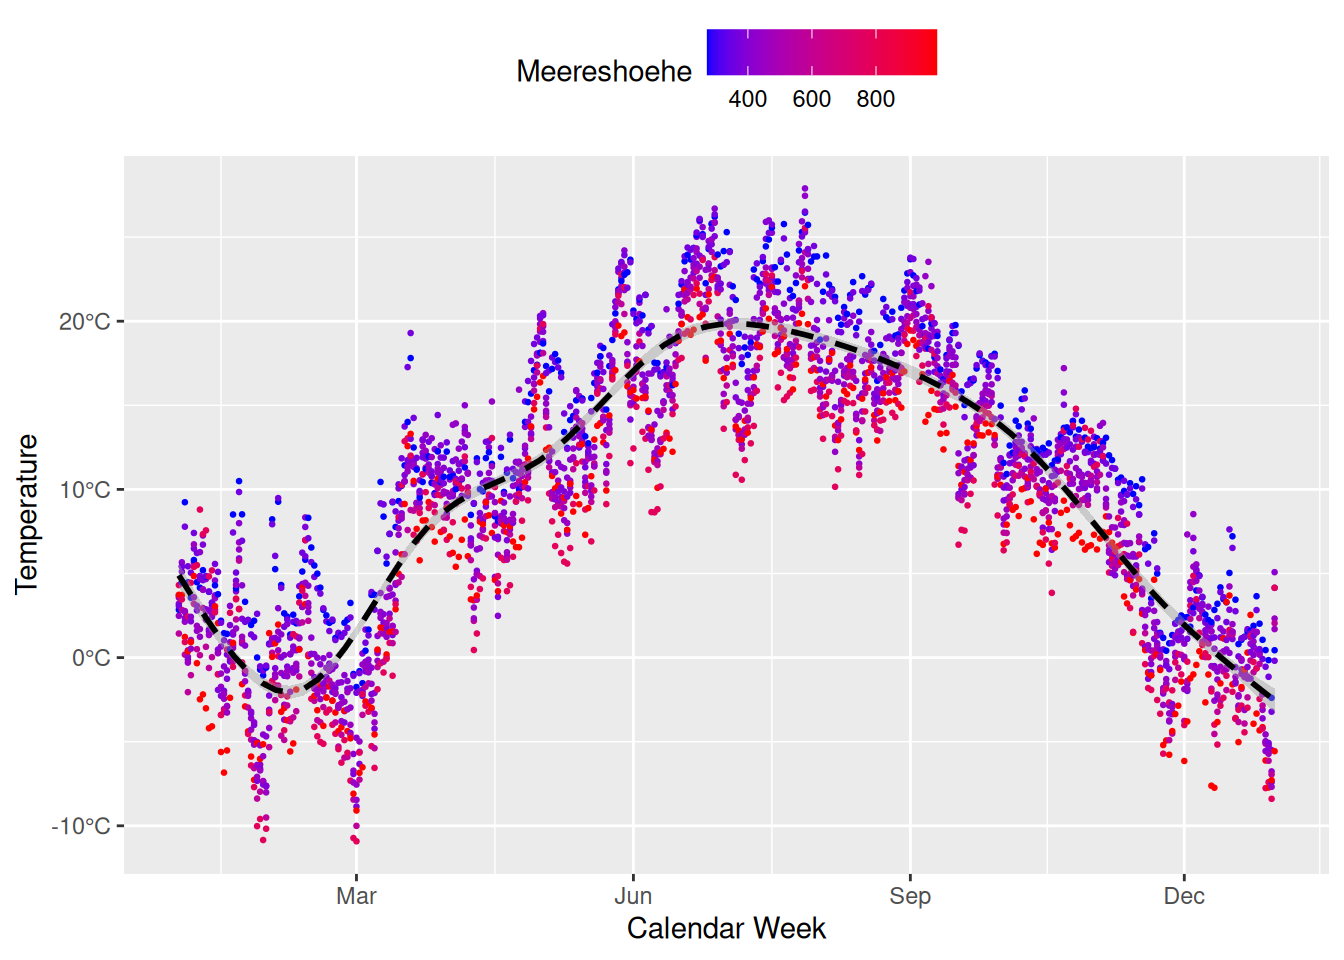
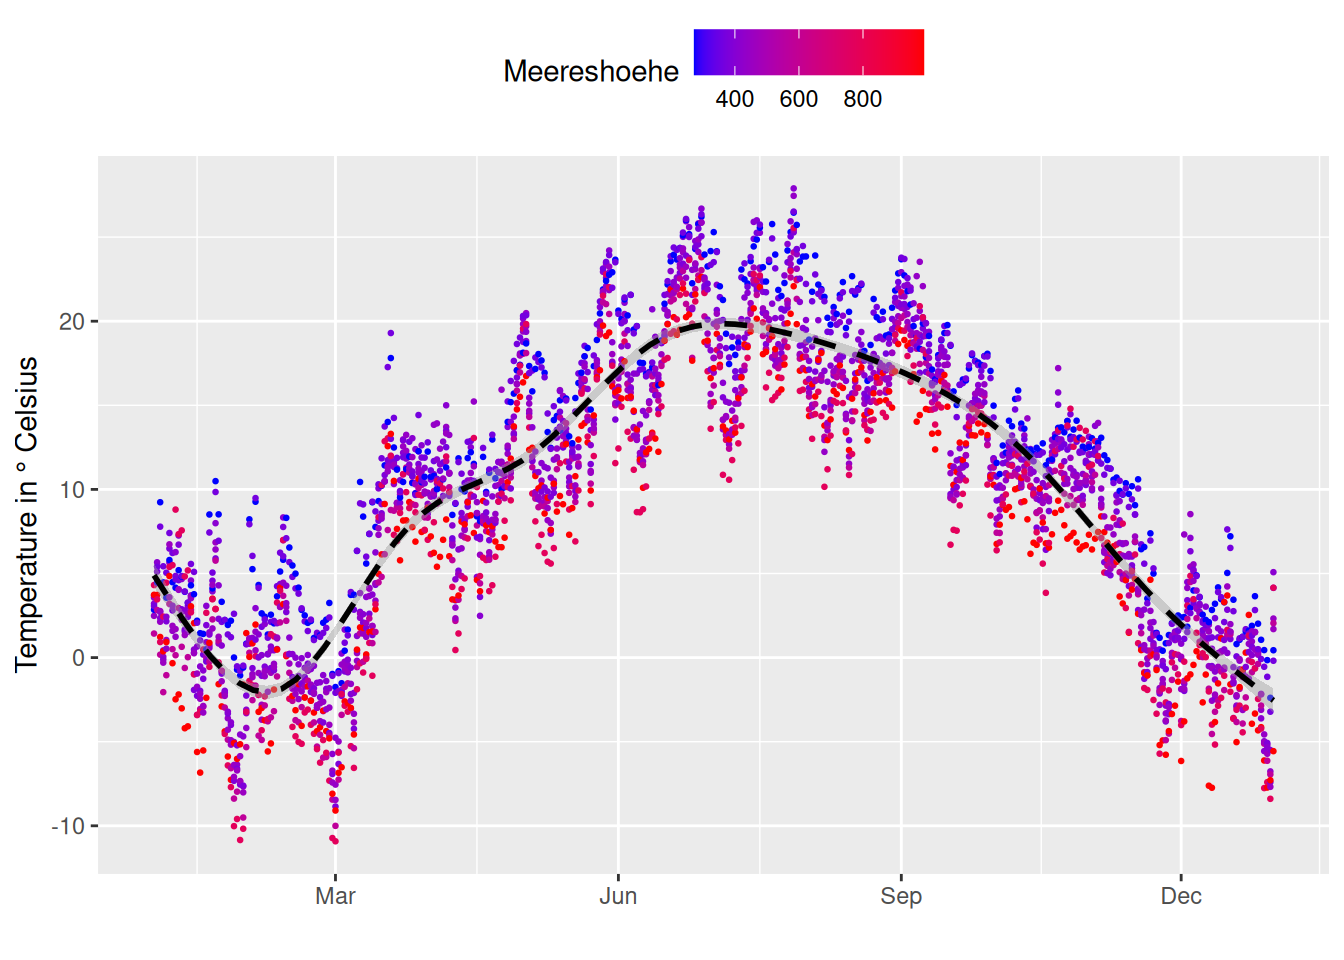
Built site for gh-pages

diff --git a/infovis/Infovis2_Uebung_A.html b/infovis/Infovis2_Uebung_A.html
@@ -398,9 +398,8 @@ window.onload = function() {
   <li><a href="#task-4" id="toc-task-4" class="nav-link" data-scroll-target="#task-4">Task 4</a></li>
   <li><a href="#task-5" id="toc-task-5" class="nav-link" data-scroll-target="#task-5">Task 5</a></li>
   <li><a href="#task-6" id="toc-task-6" class="nav-link" data-scroll-target="#task-6">Task 6</a></li>
-  <li><a href="#task-7-optional-advanced" id="toc-task-7-optional-advanced" class="nav-link" data-scroll-target="#task-7-optional-advanced">Task 7 (optional, advanced)</a></li>
+  <li><a href="#task-7" id="toc-task-7" class="nav-link" data-scroll-target="#task-7">Task 7</a></li>
   <li><a href="#task-8" id="toc-task-8" class="nav-link" data-scroll-target="#task-8">Task 8</a></li>
-  <li><a href="#task-9" id="toc-task-9" class="nav-link" data-scroll-target="#task-9">Task 9</a></li>
   </ul>
 </nav>
     </div>
@@ -445,7 +444,15 @@ window.onload = function() {
 </div>
 <section id="task-1" class="level2">
 <h2 class="anchored" data-anchor-id="task-1">Task 1</h2>
-<p>Transform the <em>wide table</em> into a <em>long table</em> using the following structure.</p>
+<p>Transform the <em>wide table</em> into a <em>long table</em> using the following code.</p>
+<div class="cell">
+<div class="sourceCode cell-code" id="cb3"><pre class="sourceCode r code-with-copy"><code class="sourceCode r"><span id="cb3-1"><a href="#cb3-1" aria-hidden="true" tabindex="-1"></a>temperature_long <span class="ot">&lt;-</span> <span class="fu">pivot_longer</span>(</span>
+<span id="cb3-2"><a href="#cb3-2" aria-hidden="true" tabindex="-1"></a>  <span class="at">data =</span> temperature, </span>
+<span id="cb3-3"><a href="#cb3-3" aria-hidden="true" tabindex="-1"></a>  <span class="at">cols =</span> <span class="sc">-</span>time, </span>
+<span id="cb3-4"><a href="#cb3-4" aria-hidden="true" tabindex="-1"></a>  <span class="at">names_to =</span> <span class="st">"station"</span>, </span>
+<span id="cb3-5"><a href="#cb3-5" aria-hidden="true" tabindex="-1"></a>  <span class="at">values_to =</span> <span class="st">"temperature"</span></span>
+<span id="cb3-6"><a href="#cb3-6" aria-hidden="true" tabindex="-1"></a>  )</span></code><button title="Copy to Clipboard" class="code-copy-button"><i class="bi"></i></button></pre></div>
+</div>
 <div class="cell">
 <div class="cell-output-display">
 <table class="table table-sm table-striped small">
@@ -500,7 +507,7 @@ window.onload = function() {
 <div class="cell-output-display">
 <div>
 <figure class="figure">
-<p><img src="Infovis2_Uebung_A_files/figure-html/unnamed-chunk-5-1.png" class="img-fluid figure-img" width="672"></p>
+<p><img src="Infovis2_Uebung_A_files/figure-html/unnamed-chunk-6-1.png" class="img-fluid figure-img" width="672"></p>
 </figure>
 </div>
 </div>
@@ -518,7 +525,7 @@ window.onload = function() {
 <div class="cell-output-display">
 <div>
 <figure class="figure">
-<p><img src="Infovis2_Uebung_A_files/figure-html/unnamed-chunk-7-1.png" class="img-fluid figure-img" width="672"></p>
+<p><img src="Infovis2_Uebung_A_files/figure-html/unnamed-chunk-8-1.png" class="img-fluid figure-img" width="672"></p>
 </figure>
 </div>
 </div>
@@ -526,12 +533,12 @@ window.onload = function() {
 </section>
 <section id="task-5" class="level2">
 <h2 class="anchored" data-anchor-id="task-5">Task 5</h2>
-<p>Add a black, dashed trend line to the plot above.</p>
+<p>Add a black, dashed trend line to the plot above (<code>geom_smooth()</code>).</p>
 <div class="cell">
 <div class="cell-output-display">
 <div>
 <figure class="figure">
-<p><img src="Infovis2_Uebung_A_files/figure-html/unnamed-chunk-8-1.png" class="img-fluid figure-img" width="672"></p>
+<p><img src="Infovis2_Uebung_A_files/figure-html/unnamed-chunk-9-1.png" class="img-fluid figure-img" width="672"></p>
 </figure>
 </div>
 </div>
@@ -544,27 +551,14 @@ window.onload = function() {
 <div class="cell-output-display">
 <div>
 <figure class="figure">
-<p><img src="Infovis2_Uebung_A_files/figure-html/unnamed-chunk-9-1.png" class="img-fluid figure-img" width="672"></p>
-</figure>
-</div>
-</div>
-</div>
-</section>
-<section id="task-7-optional-advanced" class="level2">
-<h2 class="anchored" data-anchor-id="task-7-optional-advanced">Task 7 (optional, advanced)</h2>
-<p>Add the temperature values on the y-axis with a <code>°C</code> (see below and <a href="https://stackoverflow.com/a/35967126/4139249">this page</a> for help)</p>
-<div class="cell">
-<div class="cell-output-display">
-<div>
-<figure class="figure">
 <p><img src="Infovis2_Uebung_A_files/figure-html/unnamed-chunk-10-1.png" class="img-fluid figure-img" width="672"></p>
 </figure>
 </div>
 </div>
 </div>
 </section>
-<section id="task-8" class="level2">
-<h2 class="anchored" data-anchor-id="task-8">Task 8</h2>
+<section id="task-7" class="level2">
+<h2 class="anchored" data-anchor-id="task-7">Task 7</h2>
 <p>Now, let’s move away from the scatter plot and create a box plot with the temperature data. Colour the box plots again depending on the sea level.</p>
 <ul>
 <li><p>Note the difference between <code>colour =</code> and <code>fill =</code></p></li>
@@ -583,8 +577,8 @@ window.onload = function() {
 </div>
 </div>
 </section>
-<section id="task-9" class="level2">
-<h2 class="anchored" data-anchor-id="task-9">Task 9</h2>
+<section id="task-8" class="level2">
+<h2 class="anchored" data-anchor-id="task-8">Task 8</h2>
 <p>As a final important plot type, let’s complete two exercises with histograms. First, create a histogram <code>geom_histogram()</code> with the temperature values, then allocate the weather stations to different altitude levels (Low altitude [[&lt; 400 m]], Mid altitude [[400 - 600 m]] and High altitude [[&gt; 600 m]]). Finally, compare the distribution of temperature values at the different altitudes using a histogram.</p>
 <p>Tip: Use <code>cut</code> to divide the stations into the three groups</p>
 <div class="cell">

diff --git a/InfoVis.html b/InfoVis.html
@@ -531,7 +531,7 @@ Topic
 <span class="listing-topic">Plots &amp; Facets</span>
 </td>
 </tr>
-<tr data-index="4" data-listing-date-sort="1711407600000" data-listing-file-modified-sort="1711026005227" data-listing-date-modified-sort="NaN" data-listing-reading-time-sort="4" data-listing-word-count-sort="693" data-listing-title-sort="Infovis 2: Exercise A">
+<tr data-index="4" data-listing-date-sort="1711407600000" data-listing-file-modified-sort="1711462146697" data-listing-date-modified-sort="NaN" data-listing-reading-time-sort="4" data-listing-word-count-sort="670" data-listing-title-sort="Infovis 2: Exercise A">
 <td>
 <a href="./infovis/Infovis2_Uebung_A.html" class="title listing-title">Infovis 2: Exercise A</a>
 </td>
